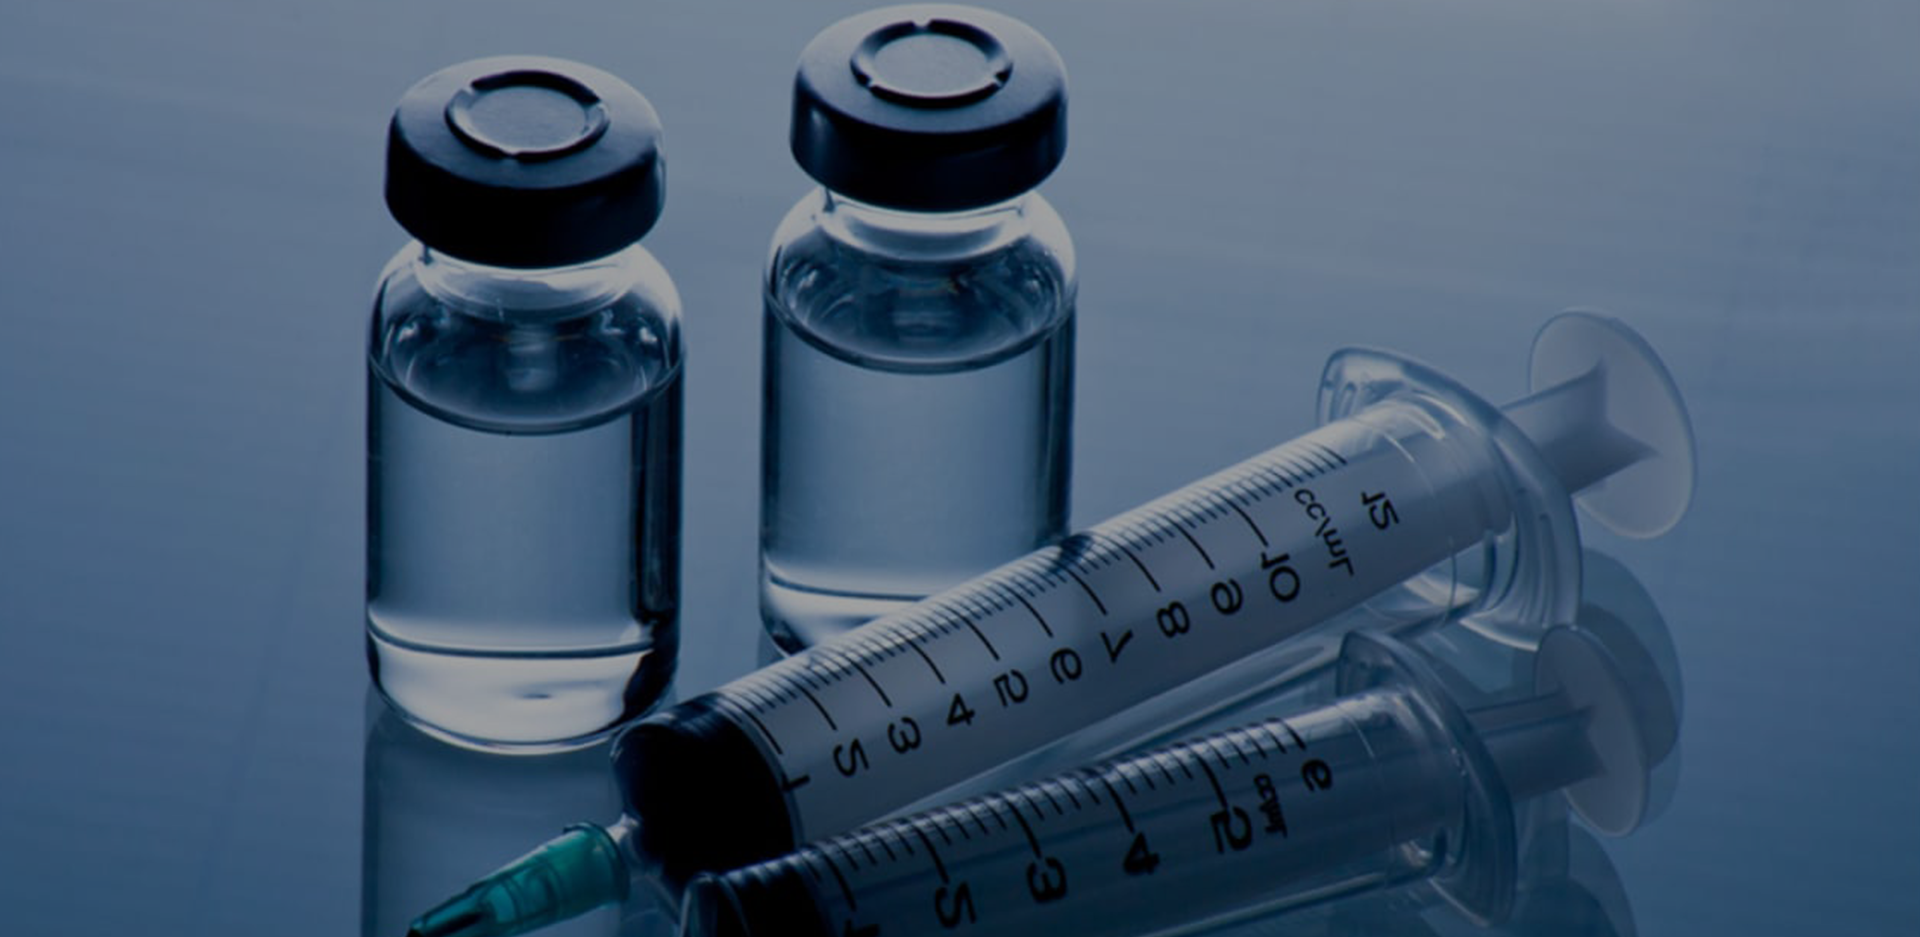
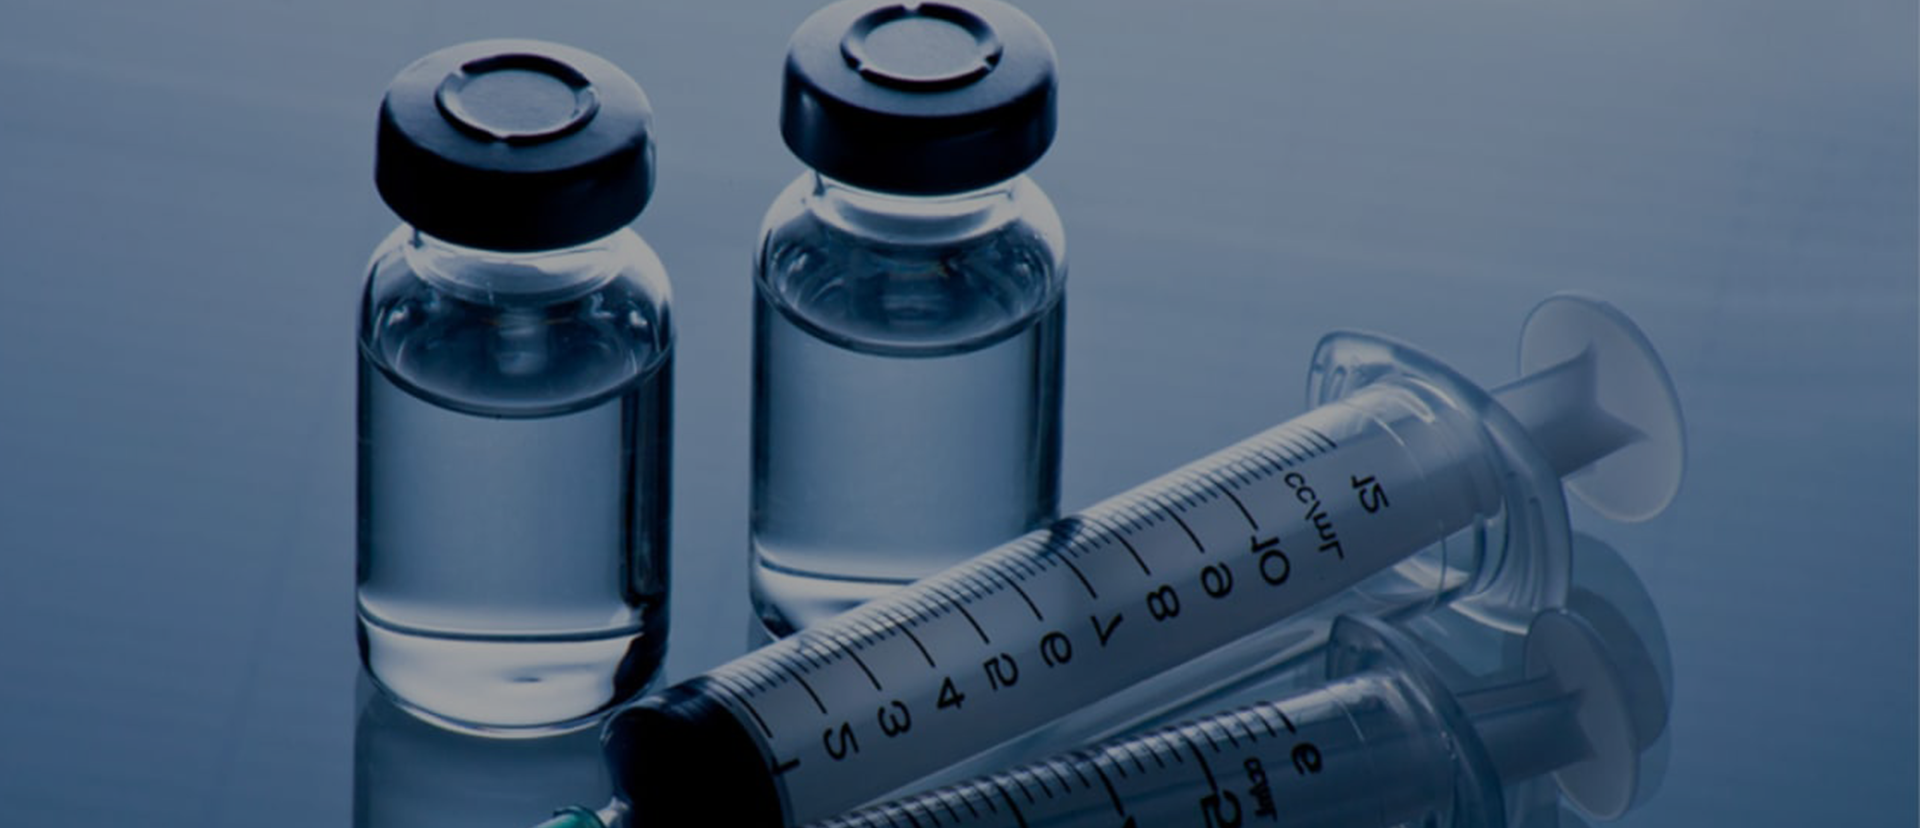
add img v2.0

diff --git a/Site/PaginaI/index.html b/Site/PaginaI/index.html
@@ -51,10 +51,10 @@
                     </div>
                   </div>
                   <div class="carousel-item"  data-interval="5000">
-                    <img src="img/vaccine2.jpg" class="d-block w-100" alt="Vacina com Ampola">
+                    <img src="img/vaccine2.png" class="d-block w-100" alt="Vacina com Ampola">
                   </div>
                   <div class="carousel-item"  data-interval="5000">
-                    <img src="img/fundo1.png" class="d-block w-100" alt="Vacina">
+                    <img src="img/vaccine3.png" class="d-block w-100" alt="Vacina">
                     <div class="carousel-caption">
                         <h3>Sobre Nós</h3>
                         <p>Criada a partir do altruísmo de 6 jovens desenvolvedores, a Vaccinus surgiu da necessidade de desenvolver soluções que visem extinguir o desperdício de vacinas durante o transporte, garantindo sua integridade até o seu destino e assim assegurando o bem-estar e saúde da população.</p>
